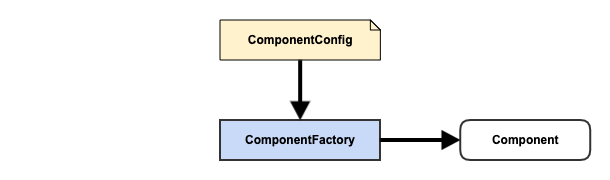
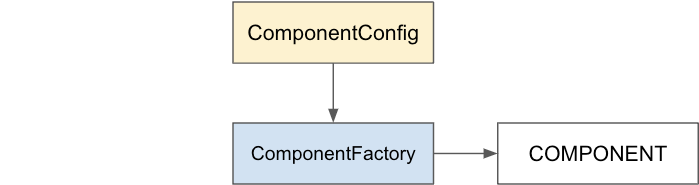
document on extension point ComponentFactory

Changed region(s): [[0.3115, 0.0, 1.0, 1.0]]

diff --git a/docs/extension-point-component-factory.md b/docs/extension-point-component-factory.md
@@ -1,0 +1,163 @@
+# Weave Extension Point - ComponentFactory
+
+## Quick Overview
+
+### Definition
+
+{ ComponentConfig, ComponentFactory, COMPONENT }
+
+### Diagram
+
+![](diagrams/WEAVE-EXTENSION-POINT-COMPONENT-FACTORY.png)
+
+### Extension Category Group Name
+
+COMPONENT_FACTORY
+
+### META-INF Template
+
+META-INF/weave/extensions.json
+
+```json
+[
+    {
+        "group": "COMPONENT_FACTORY",
+        "name": "unique component type name",
+        "baseType": "io.aftersound.weave.component.ComponentFactory",
+        "type": "implementation class name of io.aftersound.weave.component.ComponentFactory"
+    }
+]
+```
+
+### Applicable Scopes
+
+- services
+- job runners
+
+### Description
+
+This extension point allows new type of components to be added, especially those connectors which allow Weave service 
+app to be able to connect and communicate with external systems.
+
+- ComponentConfig, contains configuration/instruction for ComponentFactory to create COMPONENT accordingly
+- ComponentFactory, acts on ComponentConfig and create COMPONENT
+- COMPONENT, the component created by ComponentFactory
+
+## Component Development Guide
+
+Assume you'd like to make Weave to support a new type of data storage or database, called MyDB, and you want to create 
+a component for that, here is how.
+
+- start a Java project or use your existing project and create a new module
+- include following Weave dependencies with scope *provided*, together with MyDB client SDK, in the pom of the module. Also 
+make sure the pom asks for packaging jar with dependencies.
+
+```xml
+<groupId>io.xyz</groupId>
+<artifactId>client-mydb</artifactId>
+<version>1.0.0</version>
+
+<dependencies>
+    <dependency>
+        <groupId>io.aftersound.weave</groupId>
+        <artifactId>actor-core</artifactId>
+        <version>${weave.version}</version>
+        <scope>provided</scope>
+    </dependency>
+    <dependency>
+        <groupId>io.aftersound.weave</groupId>
+        <artifactId>component-core</artifactId>
+        <version>${weave.version}</version>
+        <scope>provided</scope>
+    </dependency>
+    <dependency>
+        <groupId>io.aftersound.weave</groupId>
+        <artifactId>config</artifactId>
+        <version>${weave.version}</version>
+        <scope>provided</scope>
+    </dependency>
+    <dependency>
+        <groupId>io.aftersound.weave</groupId>
+        <artifactId>misc</artifactId>
+        <version>${weave.version}</version>
+        <scope>provided</scope>
+    </dependency>
+    <dependency>
+        <groupId>mydb</groupId>
+        <artifactId>mydbsdk</artifactId>
+        <version>${mydbsdk.version}</version>
+    </dependency>
+</dependencies>
+```
+
+- create a class which extends DataClientFactory, together with facility classes
+
+```java
+package io.xyz.mydb;
+
+import io.aftersound.weave.common.NamedType;
+import io.aftersound.weave.config.Config;
+
+public class MyDBClientFactory extends SimpleComponentFactory<MyDBClient> {
+
+    public static final NamedType<ComponentConfig> COMPANION_CONTROL_TYPE = NamedType.of("MyDB", SimpleComponentConfig.class);
+    public static final NamedType<Object> COMPANINON_PRODUCT_TYPE = NamedType.of("MyDB", MyDBClient.class);
+
+    MyDBClientFactory(ComponentRegistry componentRegistry) {
+        super(componentRegistry);
+    }
+
+    @Override
+    protected MyDBClient createComponent(Config config) {
+        return new MyDBClient();
+    }
+
+    @Override
+    protected void destroyComponent(MyDBClient myDBClient, Config config) {
+        myDBClient.shutdown();
+    }
+}
+```
+
+- include a Weave extensions.json file under resources/META-INF/weave
+
+```json
+[
+    {
+        "group": "COMPONENT_FACTORY",
+        "name": "MyDB",
+        "baseType": "io.aftersound.weave.component.ComponentFactory",
+        "type": "io.xyz.mydb.MyDBClientFactory"
+    }
+]
+```
+- compile, test, package, install, and deploy. Your component is ready to be installed into Weave deployment for 
+integration test.
+- install the component in Weave deployment for integration test purpose , and restart all Weave instances which have 
+the component installed.
+- if you want service runtime of Weave deployment to connect to a MyDB cluster, use data client config management service
+to create a config.
+
+```html
+POST: http://WEAVE_INSTANCE:PORT/admin/data-client-config/create  
+```
+
+```json
+{
+  "type": "MyDB",
+  "id": "mydb-client-123",
+  "options": {
+    "servers": "host1:port,host2:port"
+  }
+}
+```
+- Once Weave service runtime sees this config and it'll call MyDBClientFactory to create an instance of MyDBClient 
+and place it into ClientRegistry. Any ServiceExecutor which understands MyDBClient can get hold of the instance of 
+MyDBClient by following code.
+
+```java
+// assume ExecutionControl.myDBClientId is defined for this imagined ExecutionControl
+MyDBClient client = componentRepository.getComponent(executionControl.getMyDBClientId());
+```
+
+- once tested, it's good to install it in production Weave deployment
